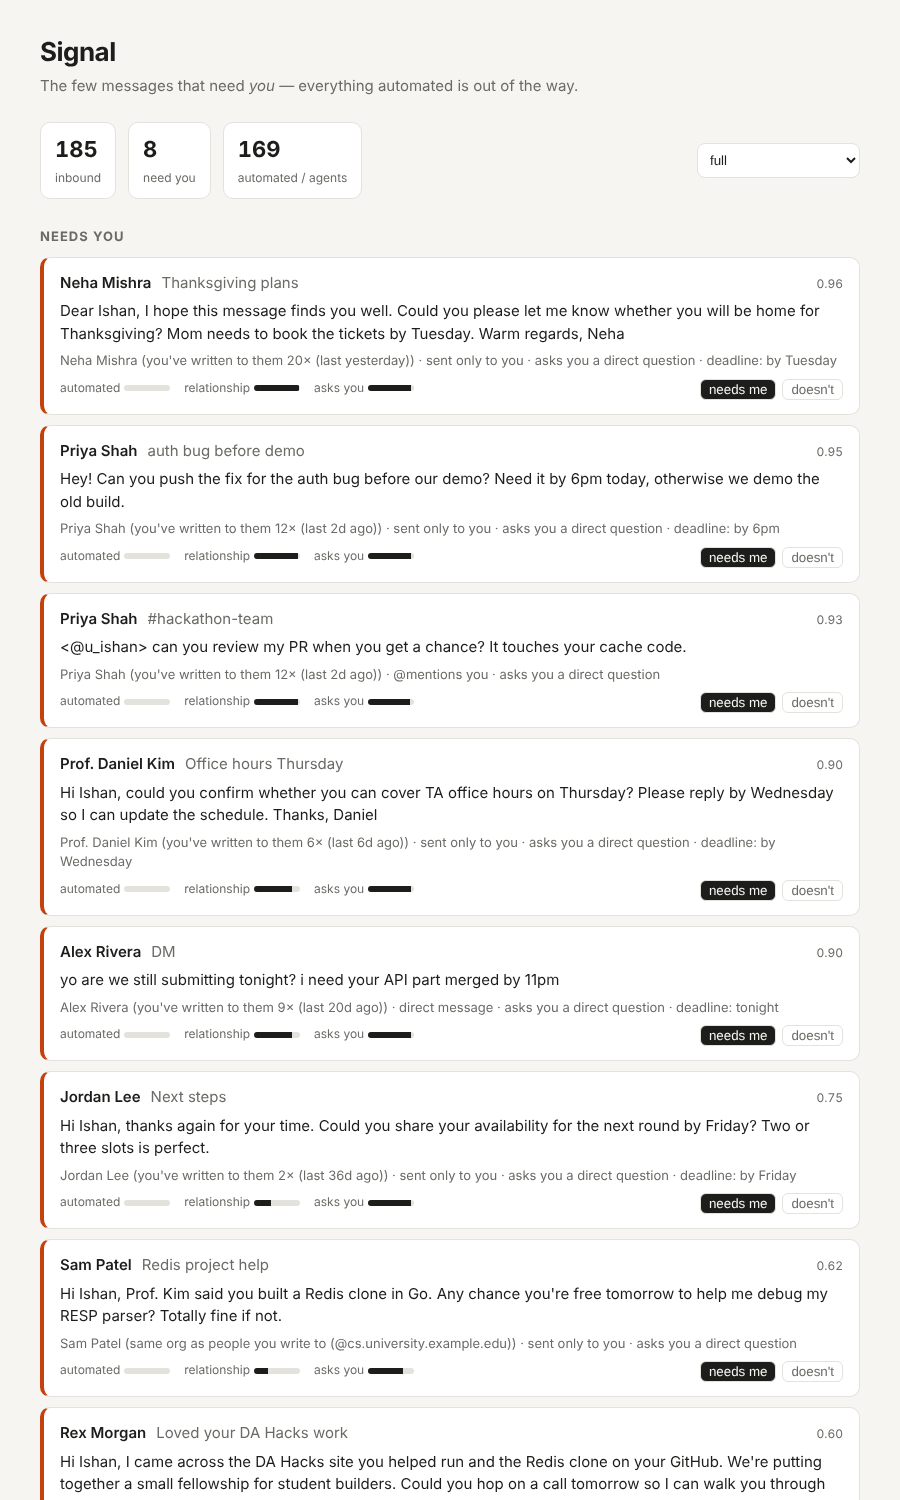
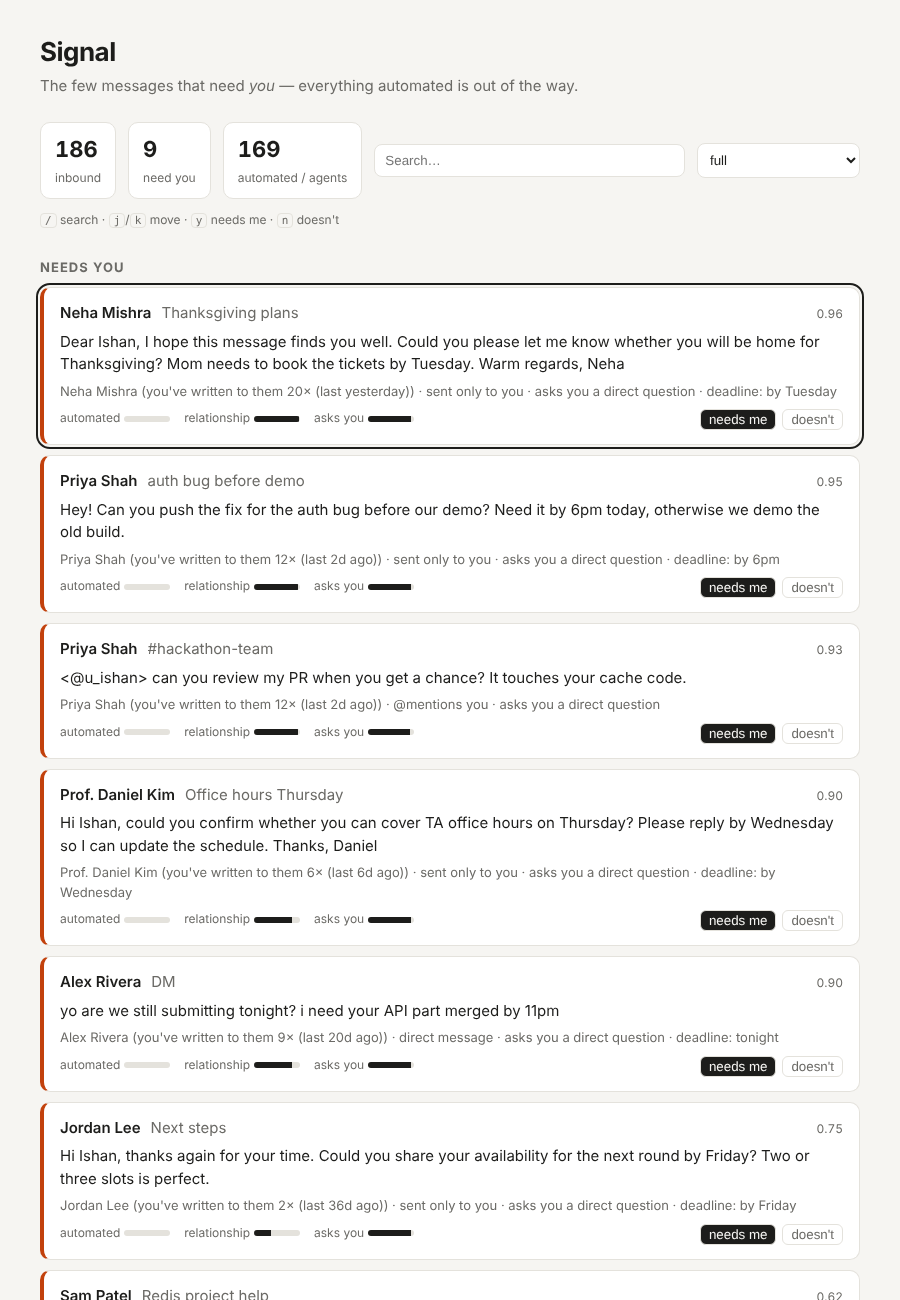
Add search and keyboard shortcuts to the web UI

diff --git a/signalbox/server.py b/signalbox/server.py
@@ -35,15 +35,20 @@ h2{font-size:13px;text-transform:uppercase;letter-spacing:.08em;color:var(--mute
 .lab button.on{background:var(--ink);color:var(--bg)}
 details summary{cursor:pointer;color:var(--mute);margin:28px 0 10px}
 .low{padding:8px 14px}.low .body{display:none}
+.msg.sel{outline:2px solid var(--ink);outline-offset:2px}
+input[type=search]{flex:1;min-width:160px;padding:8px 10px;border-radius:8px;border:1px solid var(--line);background:var(--card);color:var(--ink)}
+.keys{color:var(--mute);font-size:12px;margin:-16px 0 20px}kbd{border:1px solid var(--line);border-radius:4px;padding:0 4px;font-size:11px}
 </style></head><body><main>
 <h1>Signal</h1><p class="sub">The few messages that need <em>you</em> — everything automated is out of the way.</p>
 <div class="bar" id="stats"></div>
+<p class="keys"><kbd>/</kbd> search · <kbd>j</kbd>/<kbd>k</kbd> move · <kbd>y</kbd> needs me · <kbd>n</kbd> doesn't</p>
 <div id="list"></div>
 </main>
 <script>
 const $=s=>document.querySelector(s);
 const esc=s=>(s||"").replace(/[&<>"]/g,c=>({"&":"&amp;","<":"&lt;",">":"&gt;",'"':"&quot;"}[c]));
 let mode=new URLSearchParams(location.search).get("mode")||"full";
+let q="",sel=0,data=null;
 function meter(label,v){return `<span>${label}<span class="meter"><i style="width:${Math.round(v*100)}%"></i></span></span>`}
 function card(t){const m=t.message,s=t.signals;
  const lab=m.label===true?"yes":m.label===false?"no":"";
@@ -55,19 +60,34 @@ function card(t){const m=t.message,s=t.signals;
  <span class="lab" title="Label it — labels feed the eval">
  <button class="${lab==="yes"?"on":""}" onclick="label('${esc(m.id)}',true)">needs me</button>
  <button class="${lab==="no"?"on":""}" onclick="label('${esc(m.id)}',false)">doesn't</button></span></div></div>`}
-async function load(){
- const d=await (await fetch("/api/triage?mode="+mode)).json();
- const g=k=>d.results.filter(t=>t.tier===k);
+async function load(){data=await (await fetch("/api/triage?mode="+mode)).json();render()}
+function render(){
+ const d=data,needle=q.toLowerCase();
+ const hit=t=>!needle||[t.message.sender_name,t.message.sender,t.message.subject,t.message.body].join(" ").toLowerCase().includes(needle);
+ const g=k=>d.results.filter(t=>t.tier===k&&hit(t));
  const auto=d.results.filter(t=>t.signals.automation.score>=.5).length;
  $("#stats").innerHTML=`<div class="stat"><b>${d.results.length}</b><span>inbound</span></div>
  <div class="stat"><b>${g("needs_you").length}</b><span>need you</span></div>
  <div class="stat"><b>${auto}</b><span>automated / agents</span></div>
+ <input type="search" id="q" placeholder="Search…" value="${esc(q)}" oninput="q=this.value;sel=0;render();this.focus()">
  <select onchange="mode=this.value;load()">${d.modes.map(x=>`<option ${x===mode?"selected":""}>${x}</option>`).join("")}</select>`;
  $("#list").innerHTML=`<h2>Needs you</h2>${g("needs_you").map(card).join("")||"<p>Nothing. Enjoy.</p>"}
  <h2>Worth a look</h2>${g("worth_a_look").map(card).join("")}
- <details><summary>Filtered out (${g("low").length})</summary><div class="lowwrap">${g("low").map(t=>card(t).replace('class="msg low','class="msg low')).join("")}</div></details>`;
+ <details ${needle?"open":""}><summary>Filtered out (${g("low").length})</summary><div class="lowwrap">${g("low").map(t=>card(t).replace('class="msg low','class="msg low')).join("")}</div></details>`;
  document.querySelectorAll(".msg.low").forEach(e=>e.classList.add("low"));
+ const q2=$("#q");if(document.activeElement!==q2&&needle){q2.focus();q2.setSelectionRange(q.length,q.length)}
+ highlight();
 }
+function visible(){return [...document.querySelectorAll(".msg")].filter(e=>e.offsetParent!==null)}
+function highlight(scroll){const v=visible();sel=Math.max(0,Math.min(sel,v.length-1));
+ document.querySelectorAll(".msg.sel").forEach(e=>e.classList.remove("sel"));
+ if(v[sel]){v[sel].classList.add("sel");if(scroll)v[sel].scrollIntoView({block:"nearest"})}}
+document.addEventListener("keydown",e=>{
+ if(e.target.tagName==="INPUT"){if(e.key==="Escape")e.target.blur();return}
+ if(e.key==="/"){e.preventDefault();$("#q").focus();return}
+ if(e.key==="j"){sel++;highlight(true)}else if(e.key==="k"){sel--;highlight(true)}
+ else if(e.key==="y"||e.key==="n"){const c=visible()[sel];if(c)label(c.dataset.id,e.key==="y")}
+});
 async function label(id,v){await fetch("/api/label",{method:"POST",headers:{"content-type":"application/json"},body:JSON.stringify({id,label:v})});load()}
 load();
 </script></body></html>"""
